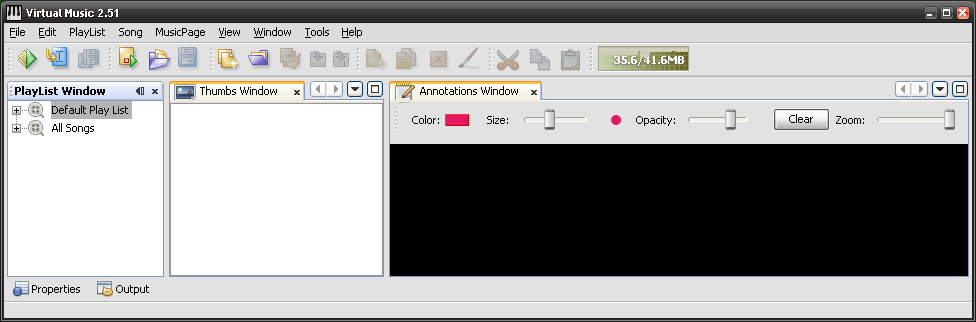
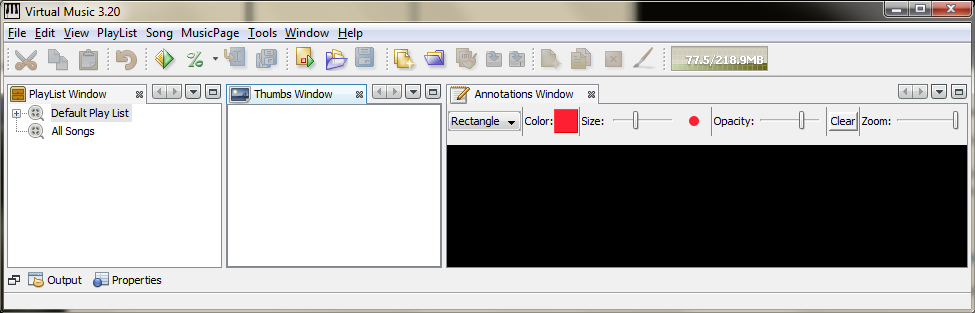
Updated release notes and some screenshots

diff --git a/Docs/index.html b/Docs/index.html
@@ -526,9 +526,10 @@ For full details and a complete list of options, see: http://java.sun.com/javase
 
 Sections 3.1.3 through 3.1.5 are particularly relevant for the Windows OS.</pre>
 </div>
-<div title="ChangeLog" modifier="GabrielBurca" modified="201205190533" created="200701272322" tags="Publish" changecount="46">
+<div title="ChangeLog" modifier="GabrielBurca" modified="201206231945" created="200701272322" tags="Publish" changecount="47">
 <pre>! Version 3.20
 * Features added:
+** Better support for Windows 7
 ** When closing the application, the user now has the choice of saving some or all of the modified contents.
 ** PlayLists can now be tagged (from the &quot;Properties&quot; window)
 ** New toolbar button allows the user to quickly toggle the scrolling amount from 100% (a full page) to 50% (half a page at a time). This comes in handy when one image contains two music pages side-by-side (ex. when copied from a book). Toggling the scroll amount to 50% results in music pages being scrolled one at a time instead of two at a time.
@@ -4204,7 +4205,7 @@ window.promptForFilename=function(msg,path,file,defext)
 }
 //}}}</pre>
 </div>
-<div title="ScreenShots" modifier="GabrielBurca" modified="200910060420" created="200702051855" tags="Publish" changecount="5">
+<div title="ScreenShots" modifier="GabrielBurca" modified="201206231944" created="200702051855" tags="Publish" changecount="6">
 <pre>This is how the application looks when in normal use. You can see the PlayLists and SongLists on the left, and the thumbnails of the MusicPages for the currently loaded song on the right. In the middle is an example of a music page with some annotations.
 
 The various window components can be re-arranged by dragging them around by their title tab.
@@ -4212,7 +4213,10 @@ The various window components can be re-arranged by dragging them around by thei
 [img[img/Annotations.png]]
 
 These are the various VirtMusOptions available:
-[img[img/Options.png]]</pre>
+[img[img/Options.png]]
+
+Toolbars can be fully customized:
+[img[img/Toolbars.png]]</pre>
 </div>
 <div title="SideBarOptions" modifier="ELSDesignStudios" created="200706280648" changecount="1">
 <pre>&lt;&lt;search&gt;&gt;&lt;&lt;closeAll&gt;&gt;&lt;&lt;permaview&gt;&gt;&lt;&lt;newTiddler&gt;&gt;&lt;&lt;newJournal &quot;DD MMM YYYY&quot;&gt;&gt;&lt;&lt;importTiddlers link&gt;&gt;&lt;&lt;exportTiddlers&gt;&gt;&lt;&lt;saveChanges&gt;&gt;&lt;&lt;upload&gt;&gt;&lt;&lt;slider chkSliderOptionsPanel OptionsPanel &quot;options »&quot; &quot;Change TiddlyWiki advanced options&quot;&gt;&gt;</pre>
